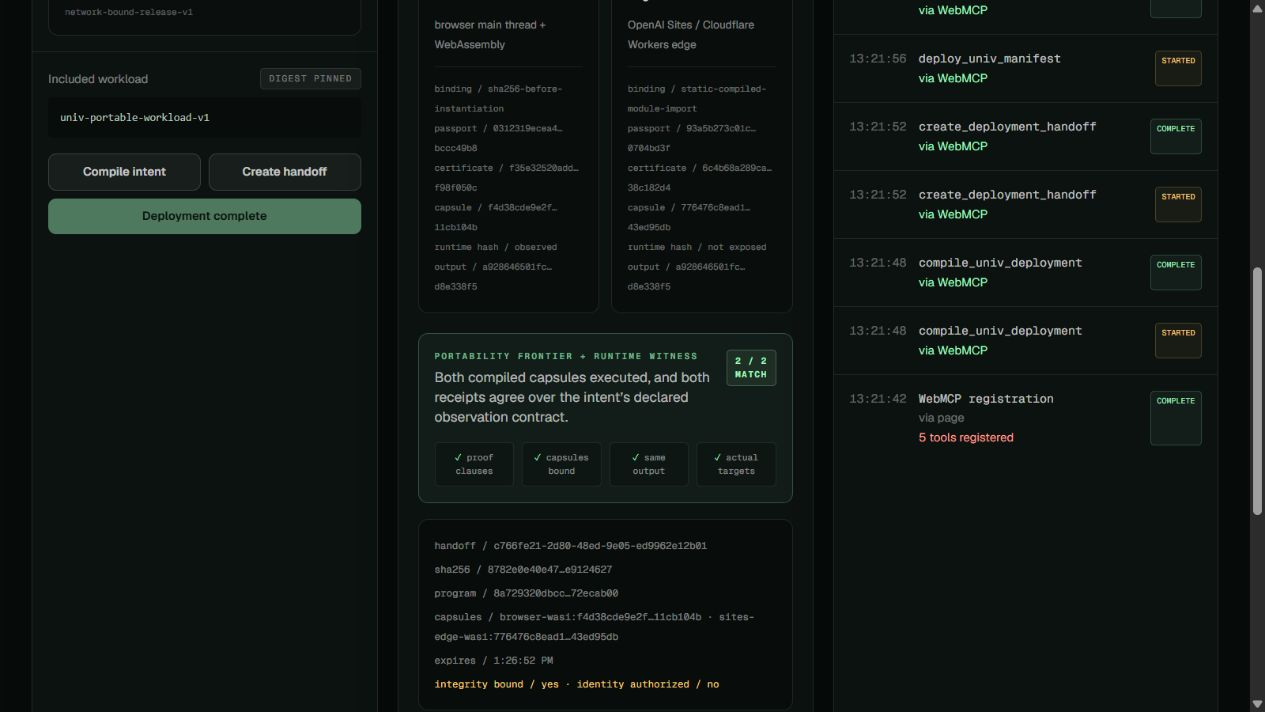
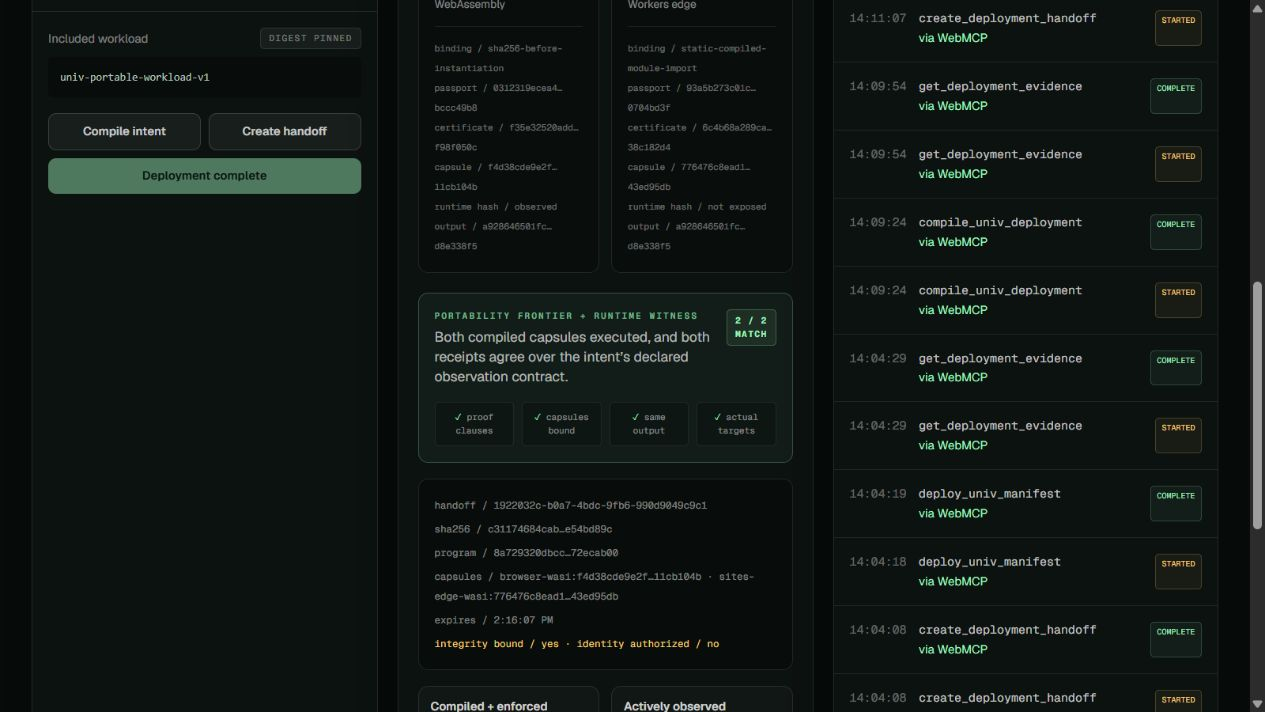
Refresh production WebMCP submission evidence

diff --git a/BUILD_WEEK_EVIDENCE.md b/BUILD_WEEK_EVIDENCE.md
@@ -11,7 +11,7 @@ content or secrets.
 | 2026-08-31 20:59 | Commit `a3a5e58514dd1a4e829a924be091219405813183`; Actions run `33439924214` | Public Witness-specific gate passed and became the strict required branch context; actions pinned to exact supported release commits | Diagnosed cross-host Rust byte variance, separated source testing from artifact reproducibility, and verified the public gate | Exact model not independently recorded in this repo | Frank required a clean required gate while retaining honest inherited-failure disclosure |
[1 lines of base64/hex data omitted]
 | 2026-08-31 22:45 | Implementation commit `d1bead1a4d1e50a8e76eafba1a48a6559840bdce`; Actions run `33447301916`; public receipt `d014533e-c7ef-44ac-b96e-4297ca1317df` | Published Sites version 5, ran the real public WebMCP handoff across both targets, captured four current screenshots, and made the UNIV Deploy gate the strict required context | Implemented, deployed, invoked, and browser-verified the final architecture and its evidence limits | Exact model not independently recorded in this repo | Frank approved direct OpenAI Sites hosting and required an honest universal-deployment demonstration |
-| 2026-09-03 17:22 | Commit `811a66cf6172df2cbd63b6d82476774728892d37`; Actions run `33783787273`; Sites version 7; public receipt `b304eb6e-d9d7-4054-9342-f78e6f069beb` | Promoted the proof-carrying deployment experiment into the product: one intent compiled against two target passports, distinct verified capsules bound into the handoff, two real executions, and a bounded runtime portability witness. The adversarial network intent produced an empty frontier and `guest-network` counterexample. | Implemented the compiler and independent verifier, ran the public WebMCP challenge-to-witness sequence, fixed a cross-intent UI consistency defect found in production verification, and recaptured submission evidence | Codex was used; an exact model identifier is not required or claimed | Frank required the theoretical universal-deployment concept to become a demonstrable, judge-worthy product dimension |
+| 2026-09-03 18:11 | Commit `28559512e58cc6daf0796dcf09037e427c6c59a5`; Sites version 8; public receipt `7cc5409e-d9d1-4cb4-b3a4-2bbbec6b15e4` | Promoted the proof-carrying deployment experiment into the product: one intent compiled against two target passports, distinct verified capsules bound into the handoff, two real executions, and a bounded runtime portability witness. The adversarial network intent produced an empty frontier and `guest-network` counterexample. | Implemented the compiler and independent verifier, ran the public WebMCP challenge-to-witness sequence, fixed cross-intent UI consistency and misleading proof-status colors found in production verification, and recaptured submission evidence | Codex was used; an exact model identifier is not required or claimed | Frank required the theoretical universal-deployment concept to become a demonstrable, judge-worthy product dimension |
 
 The earlier Witness rows document the superseded diagnostic iteration. The current
 submission is the UNIV Deploy architecture described in the README; its public

diff --git a/evidence/README.md b/evidence/README.md
@@ -8,8 +8,8 @@ Verified on 2026-09-03 against
 - Page loaded with title `UNIV Deploy — Proof-carrying WebMCP deployment`.
 - The browser discovered all five page-defined WebMCP tools at the public origin.
 - Browser console warnings/errors after the final deployment: none.
-- OpenAI Sites version 7 was built from implementation commit
-  `811a66cf6172df2cbd63b6d82476774728892d37` and deployed successfully.
+- OpenAI Sites version 8 was built from implementation commit
+  `28559512e58cc6daf0796dcf09037e427c6c59a5` and deployed successfully.
 
 ## Manifest policy proof
 
@@ -27,9 +27,9 @@ with the blocked intent, compile the permitted intent, create its handoff, deplo
 both capsules, and retrieve the evidence. The v2 receipt is stored verbatim in
 [production-webmcp-receipt-v2.json](production-webmcp-receipt-v2.json).
 
-- Evidence ID: `b304eb6e-d9d7-4054-9342-f78e6f069beb`
+- Evidence ID: `7cc5409e-d9d1-4cb4-b3a4-2bbbec6b15e4`
 - Evidence digest:
[2 lines of base64/hex data omitted]
 - Source: `WebMCP`
 - Actual targets: `browser-wasi`, `sites-edge-wasi`
 - Capsules: target-specific, independently verified, and digest-bound into the
@@ -53,7 +53,7 @@ attestation.
 ## Required submission CI
 
 - Implementation commit:
-  `811a66cf6172df2cbd63b6d82476774728892d37`
+  `28559512e58cc6daf0796dcf09037e427c6c59a5`
 - Public run: [UNIV Deploy required gate 33783787273](https://github.com/seemorecodez/univ-witness-webmcp/actions/runs/33783787273), succeeded
 - Branch protection: strict required context `UNIV Deploy required gate`
 - Force pushes and branch deletion: disabled

diff --git a/DEVPOST_CHECKLIST.md b/DEVPOST_CHECKLIST.md
@@ -12,7 +12,7 @@
 - [x] Zero known npm vulnerabilities at the 2026-09-03 validation checkpoint.
 - [x] Public repository URL added to README: <https://github.com/seemorecodez/univ-witness-webmcp>.
 - [x] Updated OpenAI Sites deployment returns HTTP 200 and completes the two-target handoff: <https://univ-witness-proof.seemoreas0-0.chatgpt.site>.
-- [x] Exact production commit `811a66cf6172df2cbd63b6d82476774728892d37` passed public `UNIV Deploy required gate` run `33783787273`.
+- [ ] Exact production commit `28559512e58cc6daf0796dcf09037e427c6c59a5` is awaiting its public `UNIV Deploy required gate` result; the identical local gate is green.
 - [x] Four refreshed viewport screenshots captured from the deployed URL in `evidence/screenshots/`.
 - [ ] Public YouTube demo under three minutes with audio.
 - [ ] Current Devpost fields and requirements rechecked immediately before submission.
